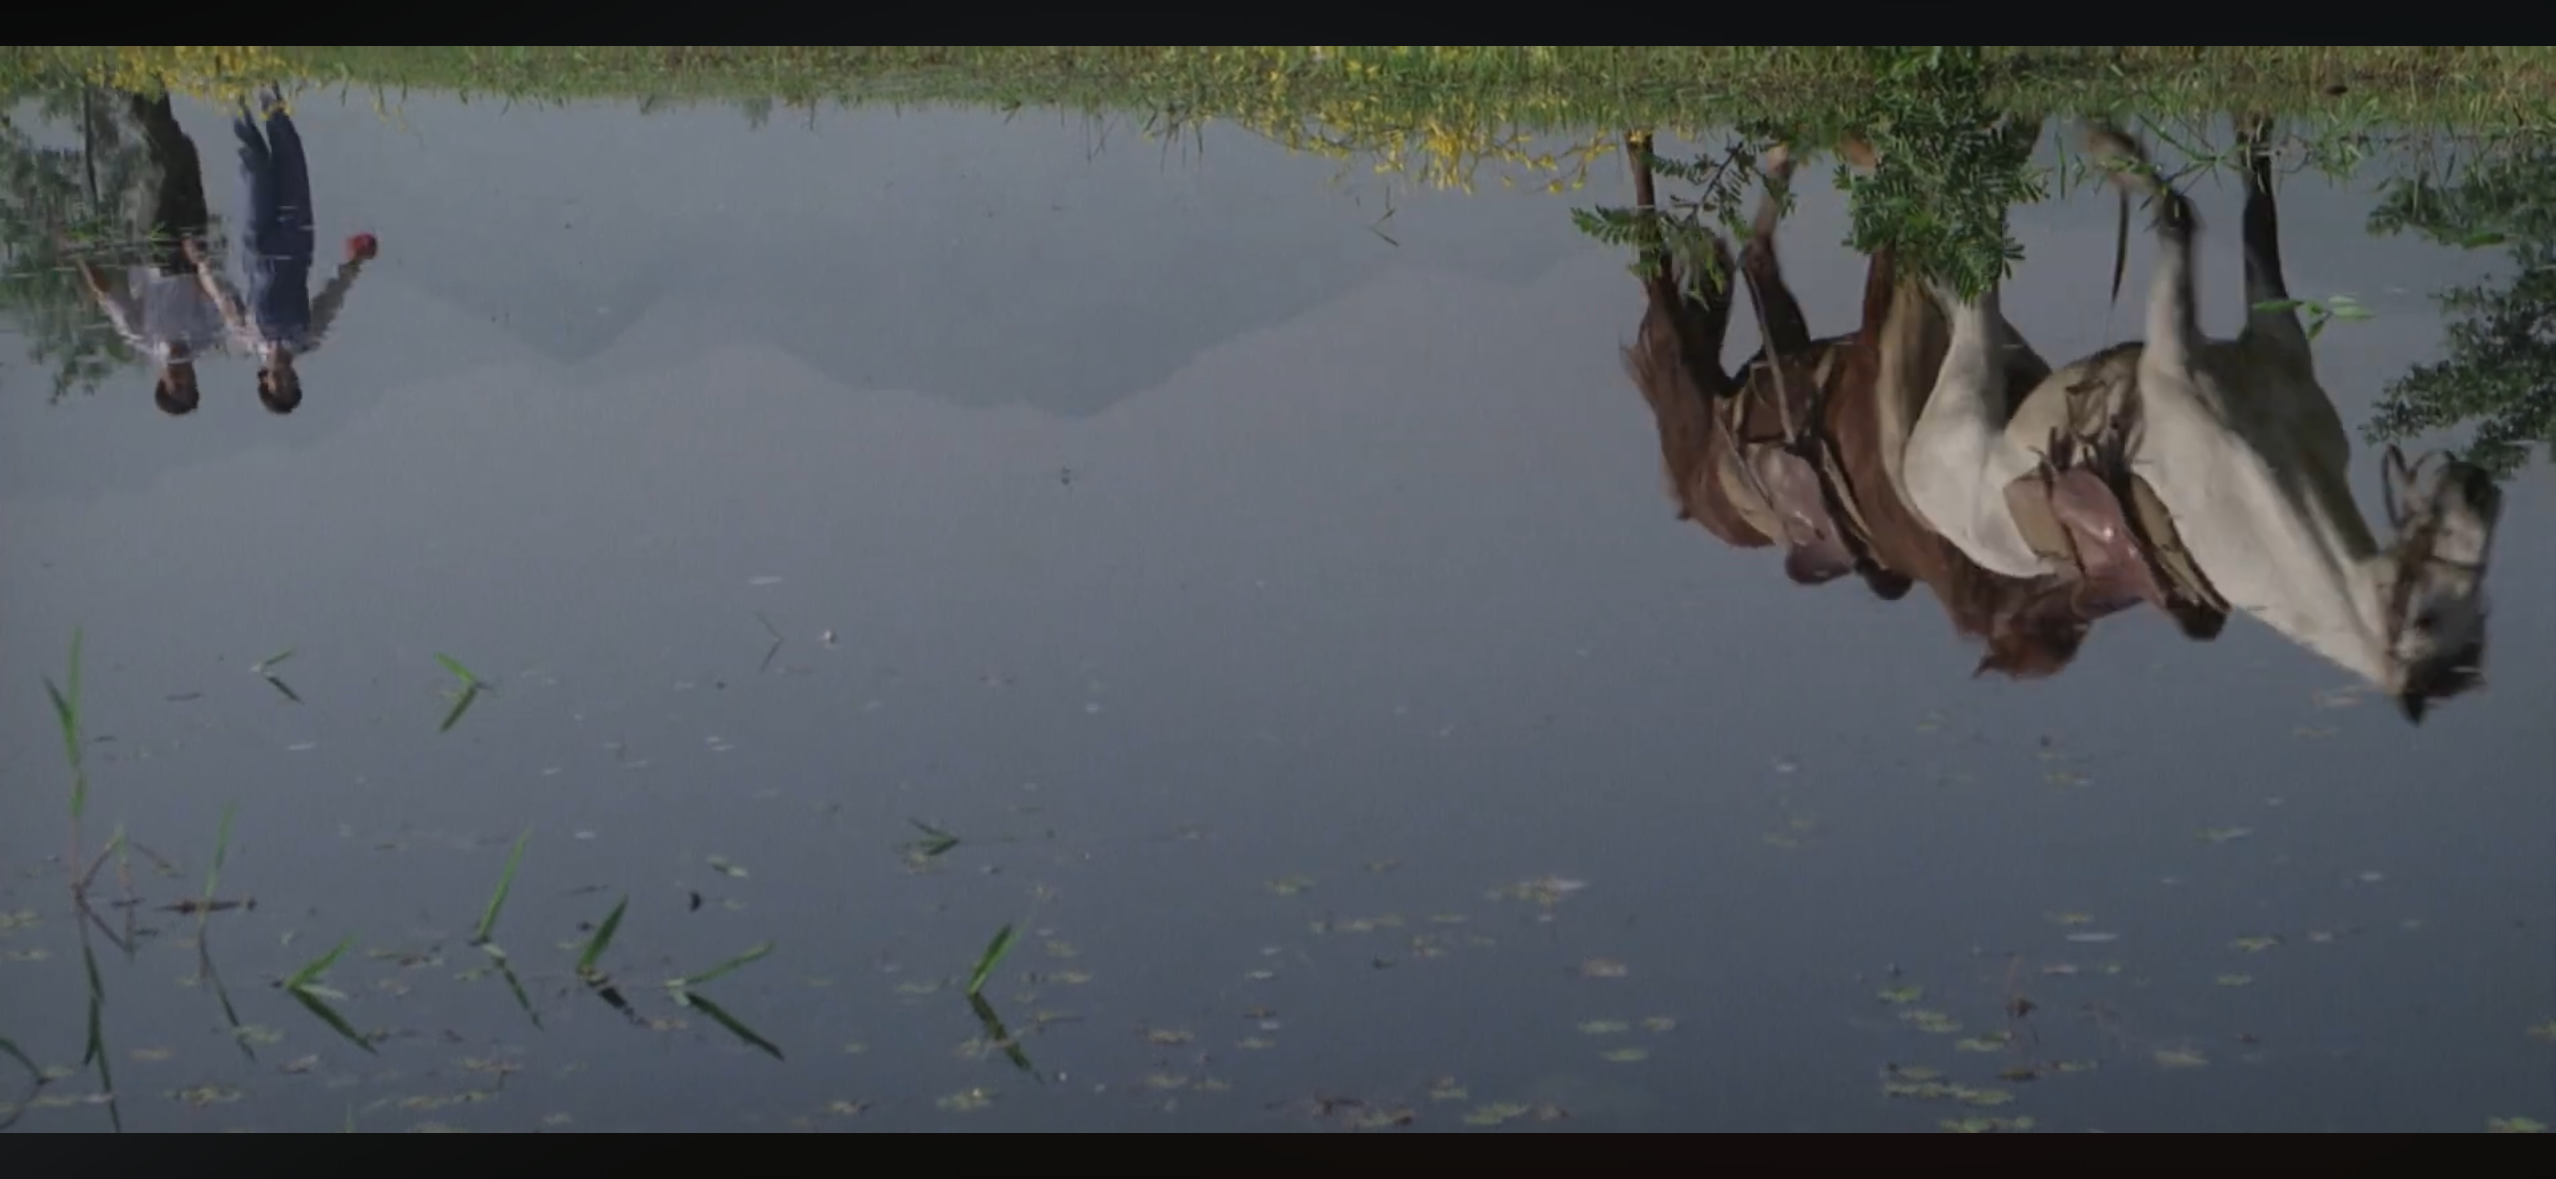
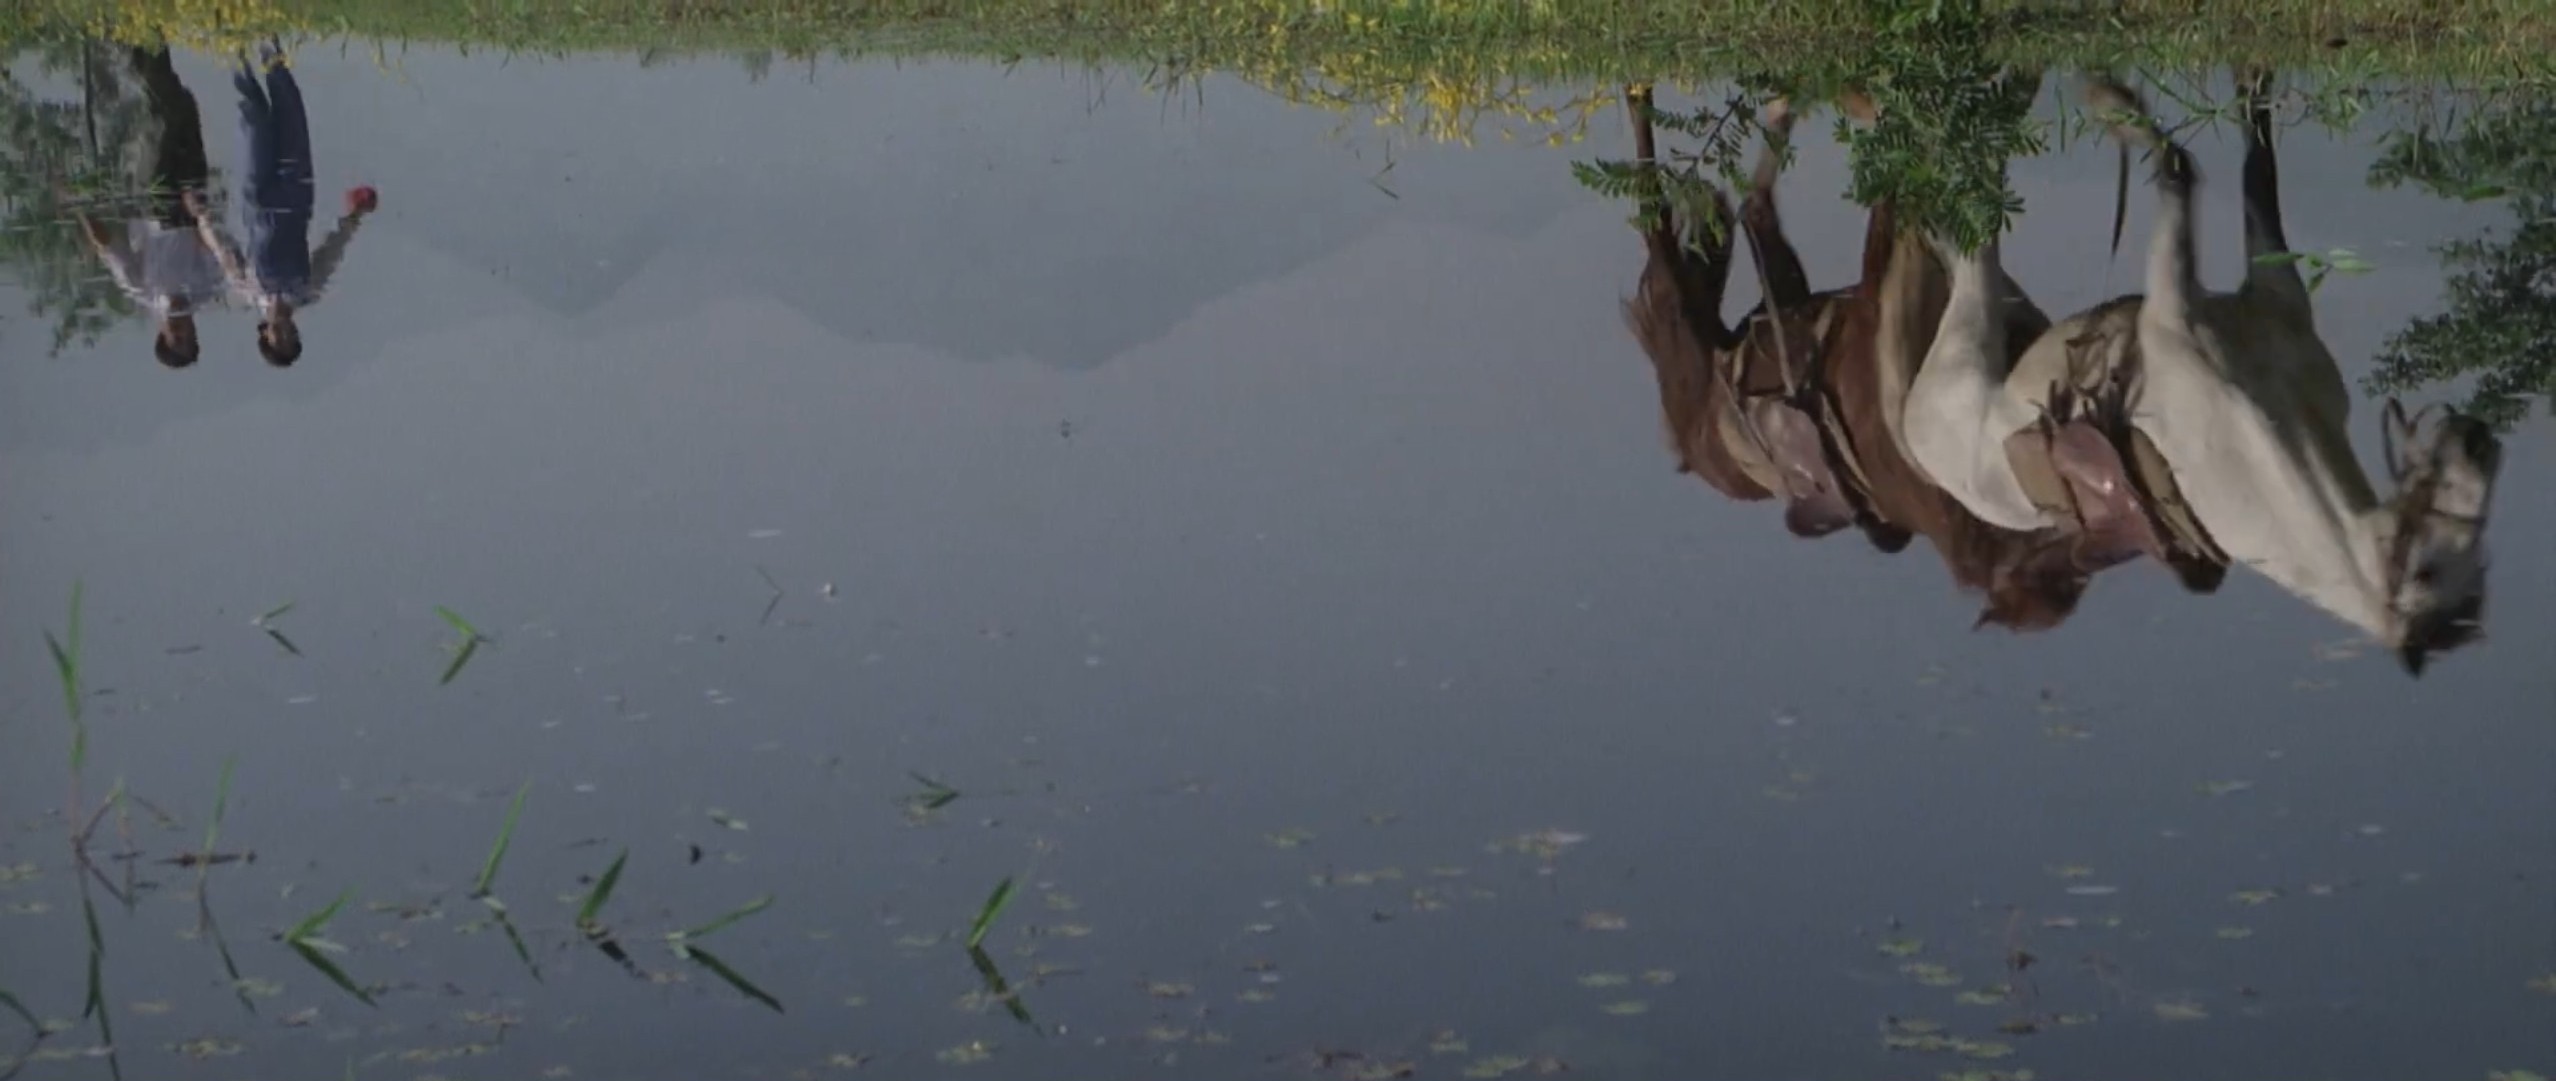
update for echo of times screening

diff --git a/_posts/echoes_of_times.en.md b/_posts/echoes_of_times.en.md
@@ -19,9 +19,9 @@ ogImage:
   url: "/assets/blog/echoes_of_times/poster/crows_and_sparrows.jpg"
 ---
 
-In late October, Shanghai Film Technology Factory (上海电影技术厂) and Hippie Screening Studio present **Echoes of Times**, a programme of 4K restored classics: *Crows and Sparrows* by Zheng Junli, starring Shangguan Yunzhu, and two films by Xie Jin, *Big Li, Little Li and Old Li* and *The Legend of Tianyun Mountain*. Three films from three eras, from the eve of 1949 to the early years of reform, each an echo of its time.
+This October, Shanghai Film Technology Factory and Hippie Screening Studio present **Echoes of Times**, a programme of 4K restored classics: *Crows and Sparrows* by Zheng Junli, starring Shangguan Yunzhu, and two films by Xie Jin, *Big Li, Little Li and Old Li* and *The Legend of Tianyun Mountain*. Three films from three eras, from the eve of 1949 to the early years of reform, each an echo of its time.
 
-10月下旬，上海电影技术厂将和嬉皮放映室联合带来【Echoes of Time时代回响】4K修复电影展，展映由郑君里导演、上官云珠参演的《乌鸦与麻雀》，以及谢晋导演的《大李小李和老李》和《天云山传奇》。
+10月下旬，上海电影技术厂将和嬉皮放映室联合带来 Echoes of Time时代回响 4K修复电影展，展映由郑君里导演、上官云珠参演的《乌鸦与麻雀》，以及谢晋导演的《大李小李和老李》和《天云山传奇》。
 
 **Screening Info**
 
